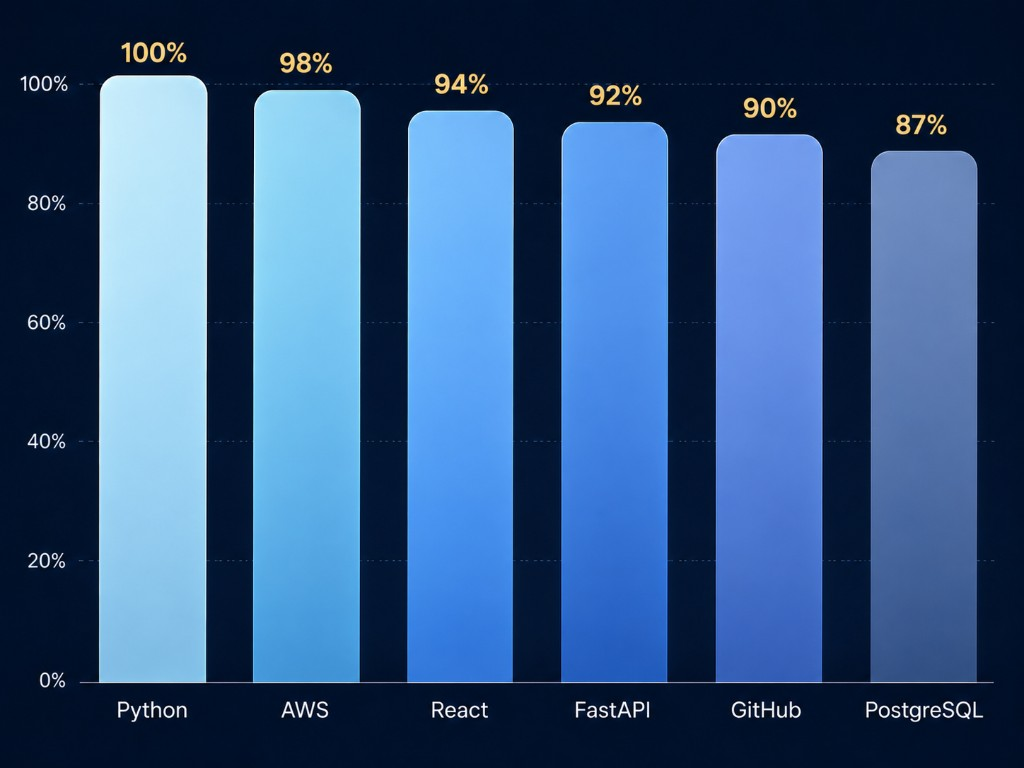
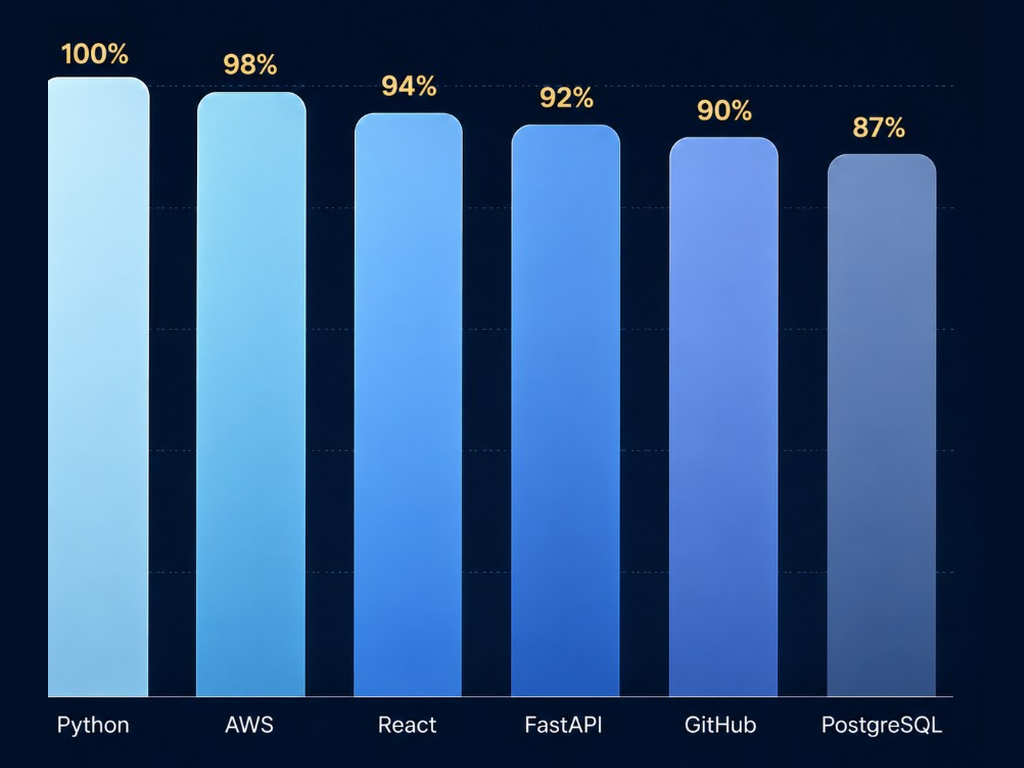
Deploy consistent tool overlay charts without Y-axis labels.

diff --git a/404.html b/404.html
@@ -1,1 +1,1 @@
-<!DOCTYPE html><html lang="en" class="inter_fe8b9d92-module__LINzvG__variable roboto_mono_a48da9b6-module__RNpGXW__variable"><head><meta charSet="utf-8"/><meta name="viewport" content="width=device-width, initial-scale=1"/><link rel="stylesheet" href="/_next/static/chunks/3mnl6wc2ep7ya.css" data-precedence="next"/><link rel="preload" as="script" fetchPriority="low" href="/_next/static/chunks/3z5q_p4msz2ha.js"/><script src="/_next/static/chunks/15orcrkp-_9ct.js" async=""></script><script src="/_next/static/chunks/2nykiepra7i1k.js" async=""></script><script src="/_next/static/chunks/082obv3v03b-9.js" async=""></script><script src="/_next/static/chunks/turbopack-3evk34_0ec8ct.js" async=""></script><script src="/_next/static/chunks/05-c3ty_6dwfk.js" async=""></script><script src="/_next/static/chunks/14mrh2-p_w84d.js" async=""></script><meta name="robots" content="noindex"/><meta name="next-size-adjust" content=""/><title>404: This page could not be found.</title><title>Joshua Faria | Automation &amp; Integration</title><meta name="description" content="Logistics automation and integration professional who builds, stabilizes, and owns production workflows across operational systems."/><link rel="icon" href="/favicon.ico?favicon.17we9-2x5_c99.ico" sizes="32x32" type="image/x-icon"/><link rel="icon" href="/icon.png" type="image/png"/><link rel="apple-touch-icon" href="/apple-icon.png" type="image/png"/><script src="/_next/static/chunks/0cz1d0mv5g_q7.js" noModule=""></script></head><body class="min-h-screen text-text antialiased"><div hidden=""><!--$--><!--/$--></div><div style="font-family:system-ui,&quot;Segoe UI&quot;,Roboto,Helvetica,Arial,sans-serif,&quot;Apple Color Emoji&quot;,&quot;Segoe UI Emoji&quot;;height:100vh;text-align:center;display:flex;flex-direction:column;align-items:center;justify-content:center"><div><style>body{color:#000;background:#fff;margin:0}.next-error-h1{border-right:1px solid rgba(0,0,0,.3)}@media (prefers-color-scheme:dark){body{color:#fff;background:#000}.next-error-h1{border-right:1px solid rgba(255,255,255,.3)}}</style><h1 class="next-error-h1" style="display:inline-block;margin:0 20px 0 0;padding:0 23px 0 0;font-size:24px;font-weight:500;vertical-align:top;line-height:49px">404</h1><div style="display:inline-block"><h2 style="font-size:14px;font-weight:400;line-height:49px;margin:0">This page could not be found.</h2></div></div></div><!--$--><!--/$--><script src="/_next/static/chunks/3z5q_p4msz2ha.js" id="_R_" async=""></script><script>(self.__next_f=self.__next_f||[]).push([0])</script><script>self.__next_f.push([1,"1:\"$Sreact.fragment\"\n2:I[39756,[\"/_next/static/chunks/05-c3ty_6dwfk.js\",\"/_next/static/chunks/14mrh2-p_w84d.js\"],\"default\"]\n3:I[37457,[\"/_next/static/chunks/05-c3ty_6dwfk.js\",\"/_next/static/chunks/14mrh2-p_w84d.js\"],\"default\"]\n4:I[97367,[\"/_next/static/chunks/05-c3ty_6dwfk.js\",\"/_next/static/chunks/14mrh2-p_w84d.js\"],\"OutletBoundary\"]\n5:\"$Sreact.suspense\"\n8:I[97367,[\"/_next/static/chunks/05-c3ty_6dwfk.js\",\"/_next/static/chunks/14mrh2-p_w84d.js\"],\"ViewportBoundary\"]\na:I[97367,[\"/_next/static/chunks/05-c3ty_6dwfk.js\",\"/_next/static/chunks/14mrh2-p_w84d.js\"],\"MetadataBoundary\"]\nc:I[68027,[\"/_next/static/chunks/05-c3ty_6dwfk.js\",\"/_next/static/chunks/14mrh2-p_w84d.js\"],\"default\",1]\n:HL[\"/_next/static/chunks/3mnl6wc2ep7ya.css\",\"style\"]\n"])</script><script>self.__next_f.push([1,"0:{\"P\":null,\"c\":[\"\",\"_not-found\"],\"q\":\"\",\"i\":false,\"f\":[[[\"\",{\"children\":[\"/_not-found\",{\"children\":[\"__PAGE__\",{}]}]},\"$undefined\",\"$undefined\",16],[[\"$\",\"$1\",\"c\",{\"children\":[[[\"$\",\"link\",\"0\",{\"rel\":\"stylesheet\",\"href\":\"/_next/static/chunks/3mnl6wc2ep7ya.css\",\"precedence\":\"next\",\"crossOrigin\":\"$undefined\",\"nonce\":\"$undefined\"}],[\"$\",\"script\",\"script-0\",{\"src\":\"/_next/static/chunks/05-c3ty_6dwfk.js\",\"async\":true,\"nonce\":\"$undefined\"}],[\"$\",\"script\",\"script-1\",{\"src\":\"/_next/static/chunks/14mrh2-p_w84d.js\",\"async\":true,\"nonce\":\"$undefined\"}]],[\"$\",\"html\",null,{\"lang\":\"en\",\"className\":\"inter_fe8b9d92-module__LINzvG__variable roboto_mono_a48da9b6-module__RNpGXW__variable\",\"children\":[\"$\",\"body\",null,{\"className\":\"min-h-screen text-text antialiased\",\"children\":[\"$\",\"$L2\",null,{\"parallelRouterKey\":\"children\",\"error\":\"$undefined\",\"errorStyles\":\"$undefined\",\"errorScripts\":\"$undefined\",\"template\":[\"$\",\"$L3\",null,{}],\"templateStyles\":\"$undefined\",\"templateScripts\":\"$undefined\",\"notFound\":[[[\"$\",\"title\",null,{\"children\":\"404: This page could not be found.\"}],[\"$\",\"div\",null,{\"style\":{\"fontFamily\":\"system-ui,\\\"Segoe UI\\\",Roboto,Helvetica,Arial,sans-serif,\\\"Apple Color Emoji\\\",\\\"Segoe UI Emoji\\\"\",\"height\":\"100vh\",\"textAlign\":\"center\",\"display\":\"flex\",\"flexDirection\":\"column\",\"alignItems\":\"center\",\"justifyContent\":\"center\"},\"children\":[\"$\",\"div\",null,{\"children\":[[\"$\",\"style\",null,{\"dangerouslySetInnerHTML\":{\"__html\":\"body{color:#000;background:#fff;margin:0}.next-error-h1{border-right:1px solid rgba(0,0,0,.3)}@media (prefers-color-scheme:dark){body{color:#fff;background:#000}.next-error-h1{border-right:1px solid rgba(255,255,255,.3)}}\"}}],[\"$\",\"h1\",null,{\"className\":\"next-error-h1\",\"style\":{\"display\":\"inline-block\",\"margin\":\"0 20px 0 0\",\"padding\":\"0 23px 0 0\",\"fontSize\":24,\"fontWeight\":500,\"verticalAlign\":\"top\",\"lineHeight\":\"49px\"},\"children\":404}],[\"$\",\"div\",null,{\"style\":{\"display\":\"inline-block\"},\"children\":[\"$\",\"h2\",null,{\"style\":{\"fontSize\":14,\"fontWeight\":400,\"lineHeight\":\"49px\",\"margin\":0},\"children\":\"This page could not be found.\"}]}]]}]}]],[]],\"forbidden\":\"$undefined\",\"unauthorized\":\"$undefined\"}]}]}]]}],{\"children\":[[\"$\",\"$1\",\"c\",{\"children\":[null,[\"$\",\"$L2\",null,{\"parallelRouterKey\":\"children\",\"error\":\"$undefined\",\"errorStyles\":\"$undefined\",\"errorScripts\":\"$undefined\",\"template\":[\"$\",\"$L3\",null,{}],\"templateStyles\":\"$undefined\",\"templateScripts\":\"$undefined\",\"notFound\":\"$undefined\",\"forbidden\":\"$undefined\",\"unauthorized\":\"$undefined\"}]]}],{\"children\":[[\"$\",\"$1\",\"c\",{\"children\":[[[\"$\",\"title\",null,{\"children\":\"404: This page could not be found.\"}],[\"$\",\"div\",null,{\"style\":\"$0:f:0:1:0:props:children:1:props:children:props:children:props:notFound:0:1:props:style\",\"children\":[\"$\",\"div\",null,{\"children\":[[\"$\",\"style\",null,{\"dangerouslySetInnerHTML\":{\"__html\":\"body{color:#000;background:#fff;margin:0}.next-error-h1{border-right:1px solid rgba(0,0,0,.3)}@media (prefers-color-scheme:dark){body{color:#fff;background:#000}.next-error-h1{border-right:1px solid rgba(255,255,255,.3)}}\"}}],[\"$\",\"h1\",null,{\"className\":\"next-error-h1\",\"style\":\"$0:f:0:1:0:props:children:1:props:children:props:children:props:notFound:0:1:props:children:props:children:1:props:style\",\"children\":404}],[\"$\",\"div\",null,{\"style\":\"$0:f:0:1:0:props:children:1:props:children:props:children:props:notFound:0:1:props:children:props:children:2:props:style\",\"children\":[\"$\",\"h2\",null,{\"style\":\"$0:f:0:1:0:props:children:1:props:children:props:children:props:notFound:0:1:props:children:props:children:2:props:children:props:style\",\"children\":\"This page could not be found.\"}]}]]}]}]],null,[\"$\",\"$L4\",null,{\"children\":[\"$\",\"$5\",null,{\"name\":\"Next.MetadataOutlet\",\"children\":\"$@6\"}]}]]}],{},null,false,null]},null,false,\"$@7\"]},null,false,null],[\"$\",\"$1\",\"h\",{\"children\":[[\"$\",\"meta\",null,{\"name\":\"robots\",\"content\":\"noindex\"}],[\"$\",\"$L8\",null,{\"children\":\"$L9\"}],[\"$\",\"div\",null,{\"hidden\":true,\"children\":[\"$\",\"$La\",null,{\"children\":[\"$\",\"$5\",null,{\"name\":\"Next.Metadata\",\"children\":\"$Lb\"}]}]}],[\"$\",\"meta\",null,{\"name\":\"next-size-adjust\",\"content\":\"\"}]]}],false]],\"m\":\"$undefined\",\"G\":[\"$c\",[[\"$\",\"link\",\"0\",{\"rel\":\"stylesheet\",\"href\":\"/_next/static/chunks/3mnl6wc2ep7ya.css\",\"precedence\":\"next\",\"crossOrigin\":\"$undefined\",\"nonce\":\"$undefined\"}]]],\"S\":true,\"h\":null,\"s\":\"$undefined\",\"l\":\"$undefined\",\"p\":\"$undefined\",\"d\":\"$undefined\",\"b\":\"uJ9xcpS7j7N98DVVjjlm2\"}\n"])</script><script>self.__next_f.push([1,"d:[]\n7:\"$Wd\"\n"])</script><script>self.__next_f.push([1,"9:[[\"$\",\"meta\",\"0\",{\"charSet\":\"utf-8\"}],[\"$\",\"meta\",\"1\",{\"name\":\"viewport\",\"content\":\"width=device-width, initial-scale=1\"}]]\n"])</script><script>self.__next_f.push([1,"e:I[27201,[\"/_next/static/chunks/05-c3ty_6dwfk.js\",\"/_next/static/chunks/14mrh2-p_w84d.js\"],\"IconMark\"]\n6:null\nb:[[\"$\",\"title\",\"0\",{\"children\":\"Joshua Faria | Automation \u0026 Integration\"}],[\"$\",\"meta\",\"1\",{\"name\":\"description\",\"content\":\"Logistics automation and integration professional who builds, stabilizes, and owns production workflows across operational systems.\"}],[\"$\",\"link\",\"2\",{\"rel\":\"icon\",\"href\":\"/favicon.ico?favicon.17we9-2x5_c99.ico\",\"sizes\":\"32x32\",\"type\":\"image/x-icon\"}],[\"$\",\"link\",\"3\",{\"rel\":\"icon\",\"href\":\"/icon.png\",\"type\":\"image/png\"}],[\"$\",\"link\",\"4\",{\"rel\":\"apple-touch-icon\",\"href\":\"/apple-icon.png\",\"type\":\"image/png\"}],[\"$\",\"$Le\",\"5\",{}]]\n"])</script></body></html>
+<!DOCTYPE html><html lang="en" class="inter_fe8b9d92-module__LINzvG__variable roboto_mono_a48da9b6-module__RNpGXW__variable"><head><meta charSet="utf-8"/><meta name="viewport" content="width=device-width, initial-scale=1"/><link rel="stylesheet" href="/_next/static/chunks/3mnl6wc2ep7ya.css" data-precedence="next"/><link rel="preload" as="script" fetchPriority="low" href="/_next/static/chunks/3z5q_p4msz2ha.js"/><script src="/_next/static/chunks/15orcrkp-_9ct.js" async=""></script><script src="/_next/static/chunks/2nykiepra7i1k.js" async=""></script><script src="/_next/static/chunks/082obv3v03b-9.js" async=""></script><script src="/_next/static/chunks/turbopack-3evk34_0ec8ct.js" async=""></script><script src="/_next/static/chunks/05-c3ty_6dwfk.js" async=""></script><script src="/_next/static/chunks/14mrh2-p_w84d.js" async=""></script><meta name="robots" content="noindex"/><meta name="next-size-adjust" content=""/><title>404: This page could not be found.</title><title>Joshua Faria | Automation &amp; Integration</title><meta name="description" content="Logistics automation and integration professional who builds, stabilizes, and owns production workflows across operational systems."/><link rel="icon" href="/favicon.ico?favicon.17we9-2x5_c99.ico" sizes="32x32" type="image/x-icon"/><link rel="icon" href="/icon.png" type="image/png"/><link rel="apple-touch-icon" href="/apple-icon.png" type="image/png"/><script src="/_next/static/chunks/0cz1d0mv5g_q7.js" noModule=""></script></head><body class="min-h-screen text-text antialiased"><div hidden=""><!--$--><!--/$--></div><div style="font-family:system-ui,&quot;Segoe UI&quot;,Roboto,Helvetica,Arial,sans-serif,&quot;Apple Color Emoji&quot;,&quot;Segoe UI Emoji&quot;;height:100vh;text-align:center;display:flex;flex-direction:column;align-items:center;justify-content:center"><div><style>body{color:#000;background:#fff;margin:0}.next-error-h1{border-right:1px solid rgba(0,0,0,.3)}@media (prefers-color-scheme:dark){body{color:#fff;background:#000}.next-error-h1{border-right:1px solid rgba(255,255,255,.3)}}</style><h1 class="next-error-h1" style="display:inline-block;margin:0 20px 0 0;padding:0 23px 0 0;font-size:24px;font-weight:500;vertical-align:top;line-height:49px">404</h1><div style="display:inline-block"><h2 style="font-size:14px;font-weight:400;line-height:49px;margin:0">This page could not be found.</h2></div></div></div><!--$--><!--/$--><script src="/_next/static/chunks/3z5q_p4msz2ha.js" id="_R_" async=""></script><script>(self.__next_f=self.__next_f||[]).push([0])</script><script>self.__next_f.push([1,"1:\"$Sreact.fragment\"\n2:I[39756,[\"/_next/static/chunks/05-c3ty_6dwfk.js\",\"/_next/static/chunks/14mrh2-p_w84d.js\"],\"default\"]\n3:I[37457,[\"/_next/static/chunks/05-c3ty_6dwfk.js\",\"/_next/static/chunks/14mrh2-p_w84d.js\"],\"default\"]\n4:I[97367,[\"/_next/static/chunks/05-c3ty_6dwfk.js\",\"/_next/static/chunks/14mrh2-p_w84d.js\"],\"OutletBoundary\"]\n5:\"$Sreact.suspense\"\n8:I[97367,[\"/_next/static/chunks/05-c3ty_6dwfk.js\",\"/_next/static/chunks/14mrh2-p_w84d.js\"],\"ViewportBoundary\"]\na:I[97367,[\"/_next/static/chunks/05-c3ty_6dwfk.js\",\"/_next/static/chunks/14mrh2-p_w84d.js\"],\"MetadataBoundary\"]\nc:I[68027,[\"/_next/static/chunks/05-c3ty_6dwfk.js\",\"/_next/static/chunks/14mrh2-p_w84d.js\"],\"default\",1]\n:HL[\"/_next/static/chunks/3mnl6wc2ep7ya.css\",\"style\"]\n"])</script><script>self.__next_f.push([1,"0:{\"P\":null,\"c\":[\"\",\"_not-found\"],\"q\":\"\",\"i\":false,\"f\":[[[\"\",{\"children\":[\"/_not-found\",{\"children\":[\"__PAGE__\",{}]}]},\"$undefined\",\"$undefined\",16],[[\"$\",\"$1\",\"c\",{\"children\":[[[\"$\",\"link\",\"0\",{\"rel\":\"stylesheet\",\"href\":\"/_next/static/chunks/3mnl6wc2ep7ya.css\",\"precedence\":\"next\",\"crossOrigin\":\"$undefined\",\"nonce\":\"$undefined\"}],[\"$\",\"script\",\"script-0\",{\"src\":\"/_next/static/chunks/05-c3ty_6dwfk.js\",\"async\":true,\"nonce\":\"$undefined\"}],[\"$\",\"script\",\"script-1\",{\"src\":\"/_next/static/chunks/14mrh2-p_w84d.js\",\"async\":true,\"nonce\":\"$undefined\"}]],[\"$\",\"html\",null,{\"lang\":\"en\",\"className\":\"inter_fe8b9d92-module__LINzvG__variable roboto_mono_a48da9b6-module__RNpGXW__variable\",\"children\":[\"$\",\"body\",null,{\"className\":\"min-h-screen text-text antialiased\",\"children\":[\"$\",\"$L2\",null,{\"parallelRouterKey\":\"children\",\"error\":\"$undefined\",\"errorStyles\":\"$undefined\",\"errorScripts\":\"$undefined\",\"template\":[\"$\",\"$L3\",null,{}],\"templateStyles\":\"$undefined\",\"templateScripts\":\"$undefined\",\"notFound\":[[[\"$\",\"title\",null,{\"children\":\"404: This page could not be found.\"}],[\"$\",\"div\",null,{\"style\":{\"fontFamily\":\"system-ui,\\\"Segoe UI\\\",Roboto,Helvetica,Arial,sans-serif,\\\"Apple Color Emoji\\\",\\\"Segoe UI Emoji\\\"\",\"height\":\"100vh\",\"textAlign\":\"center\",\"display\":\"flex\",\"flexDirection\":\"column\",\"alignItems\":\"center\",\"justifyContent\":\"center\"},\"children\":[\"$\",\"div\",null,{\"children\":[[\"$\",\"style\",null,{\"dangerouslySetInnerHTML\":{\"__html\":\"body{color:#000;background:#fff;margin:0}.next-error-h1{border-right:1px solid rgba(0,0,0,.3)}@media (prefers-color-scheme:dark){body{color:#fff;background:#000}.next-error-h1{border-right:1px solid rgba(255,255,255,.3)}}\"}}],[\"$\",\"h1\",null,{\"className\":\"next-error-h1\",\"style\":{\"display\":\"inline-block\",\"margin\":\"0 20px 0 0\",\"padding\":\"0 23px 0 0\",\"fontSize\":24,\"fontWeight\":500,\"verticalAlign\":\"top\",\"lineHeight\":\"49px\"},\"children\":404}],[\"$\",\"div\",null,{\"style\":{\"display\":\"inline-block\"},\"children\":[\"$\",\"h2\",null,{\"style\":{\"fontSize\":14,\"fontWeight\":400,\"lineHeight\":\"49px\",\"margin\":0},\"children\":\"This page could not be found.\"}]}]]}]}]],[]],\"forbidden\":\"$undefined\",\"unauthorized\":\"$undefined\"}]}]}]]}],{\"children\":[[\"$\",\"$1\",\"c\",{\"children\":[null,[\"$\",\"$L2\",null,{\"parallelRouterKey\":\"children\",\"error\":\"$undefined\",\"errorStyles\":\"$undefined\",\"errorScripts\":\"$undefined\",\"template\":[\"$\",\"$L3\",null,{}],\"templateStyles\":\"$undefined\",\"templateScripts\":\"$undefined\",\"notFound\":\"$undefined\",\"forbidden\":\"$undefined\",\"unauthorized\":\"$undefined\"}]]}],{\"children\":[[\"$\",\"$1\",\"c\",{\"children\":[[[\"$\",\"title\",null,{\"children\":\"404: This page could not be found.\"}],[\"$\",\"div\",null,{\"style\":\"$0:f:0:1:0:props:children:1:props:children:props:children:props:notFound:0:1:props:style\",\"children\":[\"$\",\"div\",null,{\"children\":[[\"$\",\"style\",null,{\"dangerouslySetInnerHTML\":{\"__html\":\"body{color:#000;background:#fff;margin:0}.next-error-h1{border-right:1px solid rgba(0,0,0,.3)}@media (prefers-color-scheme:dark){body{color:#fff;background:#000}.next-error-h1{border-right:1px solid rgba(255,255,255,.3)}}\"}}],[\"$\",\"h1\",null,{\"className\":\"next-error-h1\",\"style\":\"$0:f:0:1:0:props:children:1:props:children:props:children:props:notFound:0:1:props:children:props:children:1:props:style\",\"children\":404}],[\"$\",\"div\",null,{\"style\":\"$0:f:0:1:0:props:children:1:props:children:props:children:props:notFound:0:1:props:children:props:children:2:props:style\",\"children\":[\"$\",\"h2\",null,{\"style\":\"$0:f:0:1:0:props:children:1:props:children:props:children:props:notFound:0:1:props:children:props:children:2:props:children:props:style\",\"children\":\"This page could not be found.\"}]}]]}]}]],null,[\"$\",\"$L4\",null,{\"children\":[\"$\",\"$5\",null,{\"name\":\"Next.MetadataOutlet\",\"children\":\"$@6\"}]}]]}],{},null,false,null]},null,false,\"$@7\"]},null,false,null],[\"$\",\"$1\",\"h\",{\"children\":[[\"$\",\"meta\",null,{\"name\":\"robots\",\"content\":\"noindex\"}],[\"$\",\"$L8\",null,{\"children\":\"$L9\"}],[\"$\",\"div\",null,{\"hidden\":true,\"children\":[\"$\",\"$La\",null,{\"children\":[\"$\",\"$5\",null,{\"name\":\"Next.Metadata\",\"children\":\"$Lb\"}]}]}],[\"$\",\"meta\",null,{\"name\":\"next-size-adjust\",\"content\":\"\"}]]}],false]],\"m\":\"$undefined\",\"G\":[\"$c\",[[\"$\",\"link\",\"0\",{\"rel\":\"stylesheet\",\"href\":\"/_next/static/chunks/3mnl6wc2ep7ya.css\",\"precedence\":\"next\",\"crossOrigin\":\"$undefined\",\"nonce\":\"$undefined\"}]]],\"S\":true,\"h\":null,\"s\":\"$undefined\",\"l\":\"$undefined\",\"p\":\"$undefined\",\"d\":\"$undefined\",\"b\":\"L6Vo15XLGlWSE_x3Hokfp\"}\n"])</script><script>self.__next_f.push([1,"d:[]\n7:\"$Wd\"\n"])</script><script>self.__next_f.push([1,"9:[[\"$\",\"meta\",\"0\",{\"charSet\":\"utf-8\"}],[\"$\",\"meta\",\"1\",{\"name\":\"viewport\",\"content\":\"width=device-width, initial-scale=1\"}]]\n"])</script><script>self.__next_f.push([1,"e:I[27201,[\"/_next/static/chunks/05-c3ty_6dwfk.js\",\"/_next/static/chunks/14mrh2-p_w84d.js\"],\"IconMark\"]\n6:null\nb:[[\"$\",\"title\",\"0\",{\"children\":\"Joshua Faria | Automation \u0026 Integration\"}],[\"$\",\"meta\",\"1\",{\"name\":\"description\",\"content\":\"Logistics automation and integration professional who builds, stabilizes, and owns production workflows across operational systems.\"}],[\"$\",\"link\",\"2\",{\"rel\":\"icon\",\"href\":\"/favicon.ico?favicon.17we9-2x5_c99.ico\",\"sizes\":\"32x32\",\"type\":\"image/x-icon\"}],[\"$\",\"link\",\"3\",{\"rel\":\"icon\",\"href\":\"/icon.png\",\"type\":\"image/png\"}],[\"$\",\"link\",\"4\",{\"rel\":\"apple-touch-icon\",\"href\":\"/apple-icon.png\",\"type\":\"image/png\"}],[\"$\",\"$Le\",\"5\",{}]]\n"])</script></body></html>

diff --git a/_not-found.html b/_not-found.html
@@ -1,1 +1,1 @@
-<!DOCTYPE html><html lang="en" class="inter_fe8b9d92-module__LINzvG__variable roboto_mono_a48da9b6-module__RNpGXW__variable"><head><meta charSet="utf-8"/><meta name="viewport" content="width=device-width, initial-scale=1"/><link rel="stylesheet" href="/_next/static/chunks/3mnl6wc2ep7ya.css" data-precedence="next"/><link rel="preload" as="script" fetchPriority="low" href="/_next/static/chunks/3z5q_p4msz2ha.js"/><script src="/_next/static/chunks/15orcrkp-_9ct.js" async=""></script><script src="/_next/static/chunks/2nykiepra7i1k.js" async=""></script><script src="/_next/static/chunks/082obv3v03b-9.js" async=""></script><script src="/_next/static/chunks/turbopack-3evk34_0ec8ct.js" async=""></script><script src="/_next/static/chunks/05-c3ty_6dwfk.js" async=""></script><script src="/_next/static/chunks/14mrh2-p_w84d.js" async=""></script><meta name="robots" content="noindex"/><meta name="next-size-adjust" content=""/><title>404: This page could not be found.</title><title>Joshua Faria | Automation &amp; Integration</title><meta name="description" content="Logistics automation and integration professional who builds, stabilizes, and owns production workflows across operational systems."/><link rel="icon" href="/favicon.ico?favicon.17we9-2x5_c99.ico" sizes="32x32" type="image/x-icon"/><link rel="icon" href="/icon.png" type="image/png"/><link rel="apple-touch-icon" href="/apple-icon.png" type="image/png"/><script src="/_next/static/chunks/0cz1d0mv5g_q7.js" noModule=""></script></head><body class="min-h-screen text-text antialiased"><div hidden=""><!--$--><!--/$--></div><div style="font-family:system-ui,&quot;Segoe UI&quot;,Roboto,Helvetica,Arial,sans-serif,&quot;Apple Color Emoji&quot;,&quot;Segoe UI Emoji&quot;;height:100vh;text-align:center;display:flex;flex-direction:column;align-items:center;justify-content:center"><div><style>body{color:#000;background:#fff;margin:0}.next-error-h1{border-right:1px solid rgba(0,0,0,.3)}@media (prefers-color-scheme:dark){body{color:#fff;background:#000}.next-error-h1{border-right:1px solid rgba(255,255,255,.3)}}</style><h1 class="next-error-h1" style="display:inline-block;margin:0 20px 0 0;padding:0 23px 0 0;font-size:24px;font-weight:500;vertical-align:top;line-height:49px">404</h1><div style="display:inline-block"><h2 style="font-size:14px;font-weight:400;line-height:49px;margin:0">This page could not be found.</h2></div></div></div><!--$--><!--/$--><script src="/_next/static/chunks/3z5q_p4msz2ha.js" id="_R_" async=""></script><script>(self.__next_f=self.__next_f||[]).push([0])</script><script>self.__next_f.push([1,"1:\"$Sreact.fragment\"\n2:I[39756,[\"/_next/static/chunks/05-c3ty_6dwfk.js\",\"/_next/static/chunks/14mrh2-p_w84d.js\"],\"default\"]\n3:I[37457,[\"/_next/static/chunks/05-c3ty_6dwfk.js\",\"/_next/static/chunks/14mrh2-p_w84d.js\"],\"default\"]\n4:I[97367,[\"/_next/static/chunks/05-c3ty_6dwfk.js\",\"/_next/static/chunks/14mrh2-p_w84d.js\"],\"OutletBoundary\"]\n5:\"$Sreact.suspense\"\n8:I[97367,[\"/_next/static/chunks/05-c3ty_6dwfk.js\",\"/_next/static/chunks/14mrh2-p_w84d.js\"],\"ViewportBoundary\"]\na:I[97367,[\"/_next/static/chunks/05-c3ty_6dwfk.js\",\"/_next/static/chunks/14mrh2-p_w84d.js\"],\"MetadataBoundary\"]\nc:I[68027,[\"/_next/static/chunks/05-c3ty_6dwfk.js\",\"/_next/static/chunks/14mrh2-p_w84d.js\"],\"default\",1]\n:HL[\"/_next/static/chunks/3mnl6wc2ep7ya.css\",\"style\"]\n"])</script><script>self.__next_f.push([1,"0:{\"P\":null,\"c\":[\"\",\"_not-found\"],\"q\":\"\",\"i\":false,\"f\":[[[\"\",{\"children\":[\"/_not-found\",{\"children\":[\"__PAGE__\",{}]}]},\"$undefined\",\"$undefined\",16],[[\"$\",\"$1\",\"c\",{\"children\":[[[\"$\",\"link\",\"0\",{\"rel\":\"stylesheet\",\"href\":\"/_next/static/chunks/3mnl6wc2ep7ya.css\",\"precedence\":\"next\",\"crossOrigin\":\"$undefined\",\"nonce\":\"$undefined\"}],[\"$\",\"script\",\"script-0\",{\"src\":\"/_next/static/chunks/05-c3ty_6dwfk.js\",\"async\":true,\"nonce\":\"$undefined\"}],[\"$\",\"script\",\"script-1\",{\"src\":\"/_next/static/chunks/14mrh2-p_w84d.js\",\"async\":true,\"nonce\":\"$undefined\"}]],[\"$\",\"html\",null,{\"lang\":\"en\",\"className\":\"inter_fe8b9d92-module__LINzvG__variable roboto_mono_a48da9b6-module__RNpGXW__variable\",\"children\":[\"$\",\"body\",null,{\"className\":\"min-h-screen text-text antialiased\",\"children\":[\"$\",\"$L2\",null,{\"parallelRouterKey\":\"children\",\"error\":\"$undefined\",\"errorStyles\":\"$undefined\",\"errorScripts\":\"$undefined\",\"template\":[\"$\",\"$L3\",null,{}],\"templateStyles\":\"$undefined\",\"templateScripts\":\"$undefined\",\"notFound\":[[[\"$\",\"title\",null,{\"children\":\"404: This page could not be found.\"}],[\"$\",\"div\",null,{\"style\":{\"fontFamily\":\"system-ui,\\\"Segoe UI\\\",Roboto,Helvetica,Arial,sans-serif,\\\"Apple Color Emoji\\\",\\\"Segoe UI Emoji\\\"\",\"height\":\"100vh\",\"textAlign\":\"center\",\"display\":\"flex\",\"flexDirection\":\"column\",\"alignItems\":\"center\",\"justifyContent\":\"center\"},\"children\":[\"$\",\"div\",null,{\"children\":[[\"$\",\"style\",null,{\"dangerouslySetInnerHTML\":{\"__html\":\"body{color:#000;background:#fff;margin:0}.next-error-h1{border-right:1px solid rgba(0,0,0,.3)}@media (prefers-color-scheme:dark){body{color:#fff;background:#000}.next-error-h1{border-right:1px solid rgba(255,255,255,.3)}}\"}}],[\"$\",\"h1\",null,{\"className\":\"next-error-h1\",\"style\":{\"display\":\"inline-block\",\"margin\":\"0 20px 0 0\",\"padding\":\"0 23px 0 0\",\"fontSize\":24,\"fontWeight\":500,\"verticalAlign\":\"top\",\"lineHeight\":\"49px\"},\"children\":404}],[\"$\",\"div\",null,{\"style\":{\"display\":\"inline-block\"},\"children\":[\"$\",\"h2\",null,{\"style\":{\"fontSize\":14,\"fontWeight\":400,\"lineHeight\":\"49px\",\"margin\":0},\"children\":\"This page could not be found.\"}]}]]}]}]],[]],\"forbidden\":\"$undefined\",\"unauthorized\":\"$undefined\"}]}]}]]}],{\"children\":[[\"$\",\"$1\",\"c\",{\"children\":[null,[\"$\",\"$L2\",null,{\"parallelRouterKey\":\"children\",\"error\":\"$undefined\",\"errorStyles\":\"$undefined\",\"errorScripts\":\"$undefined\",\"template\":[\"$\",\"$L3\",null,{}],\"templateStyles\":\"$undefined\",\"templateScripts\":\"$undefined\",\"notFound\":\"$undefined\",\"forbidden\":\"$undefined\",\"unauthorized\":\"$undefined\"}]]}],{\"children\":[[\"$\",\"$1\",\"c\",{\"children\":[[[\"$\",\"title\",null,{\"children\":\"404: This page could not be found.\"}],[\"$\",\"div\",null,{\"style\":\"$0:f:0:1:0:props:children:1:props:children:props:children:props:notFound:0:1:props:style\",\"children\":[\"$\",\"div\",null,{\"children\":[[\"$\",\"style\",null,{\"dangerouslySetInnerHTML\":{\"__html\":\"body{color:#000;background:#fff;margin:0}.next-error-h1{border-right:1px solid rgba(0,0,0,.3)}@media (prefers-color-scheme:dark){body{color:#fff;background:#000}.next-error-h1{border-right:1px solid rgba(255,255,255,.3)}}\"}}],[\"$\",\"h1\",null,{\"className\":\"next-error-h1\",\"style\":\"$0:f:0:1:0:props:children:1:props:children:props:children:props:notFound:0:1:props:children:props:children:1:props:style\",\"children\":404}],[\"$\",\"div\",null,{\"style\":\"$0:f:0:1:0:props:children:1:props:children:props:children:props:notFound:0:1:props:children:props:children:2:props:style\",\"children\":[\"$\",\"h2\",null,{\"style\":\"$0:f:0:1:0:props:children:1:props:children:props:children:props:notFound:0:1:props:children:props:children:2:props:children:props:style\",\"children\":\"This page could not be found.\"}]}]]}]}]],null,[\"$\",\"$L4\",null,{\"children\":[\"$\",\"$5\",null,{\"name\":\"Next.MetadataOutlet\",\"children\":\"$@6\"}]}]]}],{},null,false,null]},null,false,\"$@7\"]},null,false,null],[\"$\",\"$1\",\"h\",{\"children\":[[\"$\",\"meta\",null,{\"name\":\"robots\",\"content\":\"noindex\"}],[\"$\",\"$L8\",null,{\"children\":\"$L9\"}],[\"$\",\"div\",null,{\"hidden\":true,\"children\":[\"$\",\"$La\",null,{\"children\":[\"$\",\"$5\",null,{\"name\":\"Next.Metadata\",\"children\":\"$Lb\"}]}]}],[\"$\",\"meta\",null,{\"name\":\"next-size-adjust\",\"content\":\"\"}]]}],false]],\"m\":\"$undefined\",\"G\":[\"$c\",[[\"$\",\"link\",\"0\",{\"rel\":\"stylesheet\",\"href\":\"/_next/static/chunks/3mnl6wc2ep7ya.css\",\"precedence\":\"next\",\"crossOrigin\":\"$undefined\",\"nonce\":\"$undefined\"}]]],\"S\":true,\"h\":null,\"s\":\"$undefined\",\"l\":\"$undefined\",\"p\":\"$undefined\",\"d\":\"$undefined\",\"b\":\"uJ9xcpS7j7N98DVVjjlm2\"}\n"])</script><script>self.__next_f.push([1,"d:[]\n7:\"$Wd\"\n"])</script><script>self.__next_f.push([1,"9:[[\"$\",\"meta\",\"0\",{\"charSet\":\"utf-8\"}],[\"$\",\"meta\",\"1\",{\"name\":\"viewport\",\"content\":\"width=device-width, initial-scale=1\"}]]\n"])</script><script>self.__next_f.push([1,"e:I[27201,[\"/_next/static/chunks/05-c3ty_6dwfk.js\",\"/_next/static/chunks/14mrh2-p_w84d.js\"],\"IconMark\"]\n6:null\nb:[[\"$\",\"title\",\"0\",{\"children\":\"Joshua Faria | Automation \u0026 Integration\"}],[\"$\",\"meta\",\"1\",{\"name\":\"description\",\"content\":\"Logistics automation and integration professional who builds, stabilizes, and owns production workflows across operational systems.\"}],[\"$\",\"link\",\"2\",{\"rel\":\"icon\",\"href\":\"/favicon.ico?favicon.17we9-2x5_c99.ico\",\"sizes\":\"32x32\",\"type\":\"image/x-icon\"}],[\"$\",\"link\",\"3\",{\"rel\":\"icon\",\"href\":\"/icon.png\",\"type\":\"image/png\"}],[\"$\",\"link\",\"4\",{\"rel\":\"apple-touch-icon\",\"href\":\"/apple-icon.png\",\"type\":\"image/png\"}],[\"$\",\"$Le\",\"5\",{}]]\n"])</script></body></html>
+<!DOCTYPE html><html lang="en" class="inter_fe8b9d92-module__LINzvG__variable roboto_mono_a48da9b6-module__RNpGXW__variable"><head><meta charSet="utf-8"/><meta name="viewport" content="width=device-width, initial-scale=1"/><link rel="stylesheet" href="/_next/static/chunks/3mnl6wc2ep7ya.css" data-precedence="next"/><link rel="preload" as="script" fetchPriority="low" href="/_next/static/chunks/3z5q_p4msz2ha.js"/><script src="/_next/static/chunks/15orcrkp-_9ct.js" async=""></script><script src="/_next/static/chunks/2nykiepra7i1k.js" async=""></script><script src="/_next/static/chunks/082obv3v03b-9.js" async=""></script><script src="/_next/static/chunks/turbopack-3evk34_0ec8ct.js" async=""></script><script src="/_next/static/chunks/05-c3ty_6dwfk.js" async=""></script><script src="/_next/static/chunks/14mrh2-p_w84d.js" async=""></script><meta name="robots" content="noindex"/><meta name="next-size-adjust" content=""/><title>404: This page could not be found.</title><title>Joshua Faria | Automation &amp; Integration</title><meta name="description" content="Logistics automation and integration professional who builds, stabilizes, and owns production workflows across operational systems."/><link rel="icon" href="/favicon.ico?favicon.17we9-2x5_c99.ico" sizes="32x32" type="image/x-icon"/><link rel="icon" href="/icon.png" type="image/png"/><link rel="apple-touch-icon" href="/apple-icon.png" type="image/png"/><script src="/_next/static/chunks/0cz1d0mv5g_q7.js" noModule=""></script></head><body class="min-h-screen text-text antialiased"><div hidden=""><!--$--><!--/$--></div><div style="font-family:system-ui,&quot;Segoe UI&quot;,Roboto,Helvetica,Arial,sans-serif,&quot;Apple Color Emoji&quot;,&quot;Segoe UI Emoji&quot;;height:100vh;text-align:center;display:flex;flex-direction:column;align-items:center;justify-content:center"><div><style>body{color:#000;background:#fff;margin:0}.next-error-h1{border-right:1px solid rgba(0,0,0,.3)}@media (prefers-color-scheme:dark){body{color:#fff;background:#000}.next-error-h1{border-right:1px solid rgba(255,255,255,.3)}}</style><h1 class="next-error-h1" style="display:inline-block;margin:0 20px 0 0;padding:0 23px 0 0;font-size:24px;font-weight:500;vertical-align:top;line-height:49px">404</h1><div style="display:inline-block"><h2 style="font-size:14px;font-weight:400;line-height:49px;margin:0">This page could not be found.</h2></div></div></div><!--$--><!--/$--><script src="/_next/static/chunks/3z5q_p4msz2ha.js" id="_R_" async=""></script><script>(self.__next_f=self.__next_f||[]).push([0])</script><script>self.__next_f.push([1,"1:\"$Sreact.fragment\"\n2:I[39756,[\"/_next/static/chunks/05-c3ty_6dwfk.js\",\"/_next/static/chunks/14mrh2-p_w84d.js\"],\"default\"]\n3:I[37457,[\"/_next/static/chunks/05-c3ty_6dwfk.js\",\"/_next/static/chunks/14mrh2-p_w84d.js\"],\"default\"]\n4:I[97367,[\"/_next/static/chunks/05-c3ty_6dwfk.js\",\"/_next/static/chunks/14mrh2-p_w84d.js\"],\"OutletBoundary\"]\n5:\"$Sreact.suspense\"\n8:I[97367,[\"/_next/static/chunks/05-c3ty_6dwfk.js\",\"/_next/static/chunks/14mrh2-p_w84d.js\"],\"ViewportBoundary\"]\na:I[97367,[\"/_next/static/chunks/05-c3ty_6dwfk.js\",\"/_next/static/chunks/14mrh2-p_w84d.js\"],\"MetadataBoundary\"]\nc:I[68027,[\"/_next/static/chunks/05-c3ty_6dwfk.js\",\"/_next/static/chunks/14mrh2-p_w84d.js\"],\"default\",1]\n:HL[\"/_next/static/chunks/3mnl6wc2ep7ya.css\",\"style\"]\n"])</script><script>self.__next_f.push([1,"0:{\"P\":null,\"c\":[\"\",\"_not-found\"],\"q\":\"\",\"i\":false,\"f\":[[[\"\",{\"children\":[\"/_not-found\",{\"children\":[\"__PAGE__\",{}]}]},\"$undefined\",\"$undefined\",16],[[\"$\",\"$1\",\"c\",{\"children\":[[[\"$\",\"link\",\"0\",{\"rel\":\"stylesheet\",\"href\":\"/_next/static/chunks/3mnl6wc2ep7ya.css\",\"precedence\":\"next\",\"crossOrigin\":\"$undefined\",\"nonce\":\"$undefined\"}],[\"$\",\"script\",\"script-0\",{\"src\":\"/_next/static/chunks/05-c3ty_6dwfk.js\",\"async\":true,\"nonce\":\"$undefined\"}],[\"$\",\"script\",\"script-1\",{\"src\":\"/_next/static/chunks/14mrh2-p_w84d.js\",\"async\":true,\"nonce\":\"$undefined\"}]],[\"$\",\"html\",null,{\"lang\":\"en\",\"className\":\"inter_fe8b9d92-module__LINzvG__variable roboto_mono_a48da9b6-module__RNpGXW__variable\",\"children\":[\"$\",\"body\",null,{\"className\":\"min-h-screen text-text antialiased\",\"children\":[\"$\",\"$L2\",null,{\"parallelRouterKey\":\"children\",\"error\":\"$undefined\",\"errorStyles\":\"$undefined\",\"errorScripts\":\"$undefined\",\"template\":[\"$\",\"$L3\",null,{}],\"templateStyles\":\"$undefined\",\"templateScripts\":\"$undefined\",\"notFound\":[[[\"$\",\"title\",null,{\"children\":\"404: This page could not be found.\"}],[\"$\",\"div\",null,{\"style\":{\"fontFamily\":\"system-ui,\\\"Segoe UI\\\",Roboto,Helvetica,Arial,sans-serif,\\\"Apple Color Emoji\\\",\\\"Segoe UI Emoji\\\"\",\"height\":\"100vh\",\"textAlign\":\"center\",\"display\":\"flex\",\"flexDirection\":\"column\",\"alignItems\":\"center\",\"justifyContent\":\"center\"},\"children\":[\"$\",\"div\",null,{\"children\":[[\"$\",\"style\",null,{\"dangerouslySetInnerHTML\":{\"__html\":\"body{color:#000;background:#fff;margin:0}.next-error-h1{border-right:1px solid rgba(0,0,0,.3)}@media (prefers-color-scheme:dark){body{color:#fff;background:#000}.next-error-h1{border-right:1px solid rgba(255,255,255,.3)}}\"}}],[\"$\",\"h1\",null,{\"className\":\"next-error-h1\",\"style\":{\"display\":\"inline-block\",\"margin\":\"0 20px 0 0\",\"padding\":\"0 23px 0 0\",\"fontSize\":24,\"fontWeight\":500,\"verticalAlign\":\"top\",\"lineHeight\":\"49px\"},\"children\":404}],[\"$\",\"div\",null,{\"style\":{\"display\":\"inline-block\"},\"children\":[\"$\",\"h2\",null,{\"style\":{\"fontSize\":14,\"fontWeight\":400,\"lineHeight\":\"49px\",\"margin\":0},\"children\":\"This page could not be found.\"}]}]]}]}]],[]],\"forbidden\":\"$undefined\",\"unauthorized\":\"$undefined\"}]}]}]]}],{\"children\":[[\"$\",\"$1\",\"c\",{\"children\":[null,[\"$\",\"$L2\",null,{\"parallelRouterKey\":\"children\",\"error\":\"$undefined\",\"errorStyles\":\"$undefined\",\"errorScripts\":\"$undefined\",\"template\":[\"$\",\"$L3\",null,{}],\"templateStyles\":\"$undefined\",\"templateScripts\":\"$undefined\",\"notFound\":\"$undefined\",\"forbidden\":\"$undefined\",\"unauthorized\":\"$undefined\"}]]}],{\"children\":[[\"$\",\"$1\",\"c\",{\"children\":[[[\"$\",\"title\",null,{\"children\":\"404: This page could not be found.\"}],[\"$\",\"div\",null,{\"style\":\"$0:f:0:1:0:props:children:1:props:children:props:children:props:notFound:0:1:props:style\",\"children\":[\"$\",\"div\",null,{\"children\":[[\"$\",\"style\",null,{\"dangerouslySetInnerHTML\":{\"__html\":\"body{color:#000;background:#fff;margin:0}.next-error-h1{border-right:1px solid rgba(0,0,0,.3)}@media (prefers-color-scheme:dark){body{color:#fff;background:#000}.next-error-h1{border-right:1px solid rgba(255,255,255,.3)}}\"}}],[\"$\",\"h1\",null,{\"className\":\"next-error-h1\",\"style\":\"$0:f:0:1:0:props:children:1:props:children:props:children:props:notFound:0:1:props:children:props:children:1:props:style\",\"children\":404}],[\"$\",\"div\",null,{\"style\":\"$0:f:0:1:0:props:children:1:props:children:props:children:props:notFound:0:1:props:children:props:children:2:props:style\",\"children\":[\"$\",\"h2\",null,{\"style\":\"$0:f:0:1:0:props:children:1:props:children:props:children:props:notFound:0:1:props:children:props:children:2:props:children:props:style\",\"children\":\"This page could not be found.\"}]}]]}]}]],null,[\"$\",\"$L4\",null,{\"children\":[\"$\",\"$5\",null,{\"name\":\"Next.MetadataOutlet\",\"children\":\"$@6\"}]}]]}],{},null,false,null]},null,false,\"$@7\"]},null,false,null],[\"$\",\"$1\",\"h\",{\"children\":[[\"$\",\"meta\",null,{\"name\":\"robots\",\"content\":\"noindex\"}],[\"$\",\"$L8\",null,{\"children\":\"$L9\"}],[\"$\",\"div\",null,{\"hidden\":true,\"children\":[\"$\",\"$La\",null,{\"children\":[\"$\",\"$5\",null,{\"name\":\"Next.Metadata\",\"children\":\"$Lb\"}]}]}],[\"$\",\"meta\",null,{\"name\":\"next-size-adjust\",\"content\":\"\"}]]}],false]],\"m\":\"$undefined\",\"G\":[\"$c\",[[\"$\",\"link\",\"0\",{\"rel\":\"stylesheet\",\"href\":\"/_next/static/chunks/3mnl6wc2ep7ya.css\",\"precedence\":\"next\",\"crossOrigin\":\"$undefined\",\"nonce\":\"$undefined\"}]]],\"S\":true,\"h\":null,\"s\":\"$undefined\",\"l\":\"$undefined\",\"p\":\"$undefined\",\"d\":\"$undefined\",\"b\":\"L6Vo15XLGlWSE_x3Hokfp\"}\n"])</script><script>self.__next_f.push([1,"d:[]\n7:\"$Wd\"\n"])</script><script>self.__next_f.push([1,"9:[[\"$\",\"meta\",\"0\",{\"charSet\":\"utf-8\"}],[\"$\",\"meta\",\"1\",{\"name\":\"viewport\",\"content\":\"width=device-width, initial-scale=1\"}]]\n"])</script><script>self.__next_f.push([1,"e:I[27201,[\"/_next/static/chunks/05-c3ty_6dwfk.js\",\"/_next/static/chunks/14mrh2-p_w84d.js\"],\"IconMark\"]\n6:null\nb:[[\"$\",\"title\",\"0\",{\"children\":\"Joshua Faria | Automation \u0026 Integration\"}],[\"$\",\"meta\",\"1\",{\"name\":\"description\",\"content\":\"Logistics automation and integration professional who builds, stabilizes, and owns production workflows across operational systems.\"}],[\"$\",\"link\",\"2\",{\"rel\":\"icon\",\"href\":\"/favicon.ico?favicon.17we9-2x5_c99.ico\",\"sizes\":\"32x32\",\"type\":\"image/x-icon\"}],[\"$\",\"link\",\"3\",{\"rel\":\"icon\",\"href\":\"/icon.png\",\"type\":\"image/png\"}],[\"$\",\"link\",\"4\",{\"rel\":\"apple-touch-icon\",\"href\":\"/apple-icon.png\",\"type\":\"image/png\"}],[\"$\",\"$Le\",\"5\",{}]]\n"])</script></body></html>